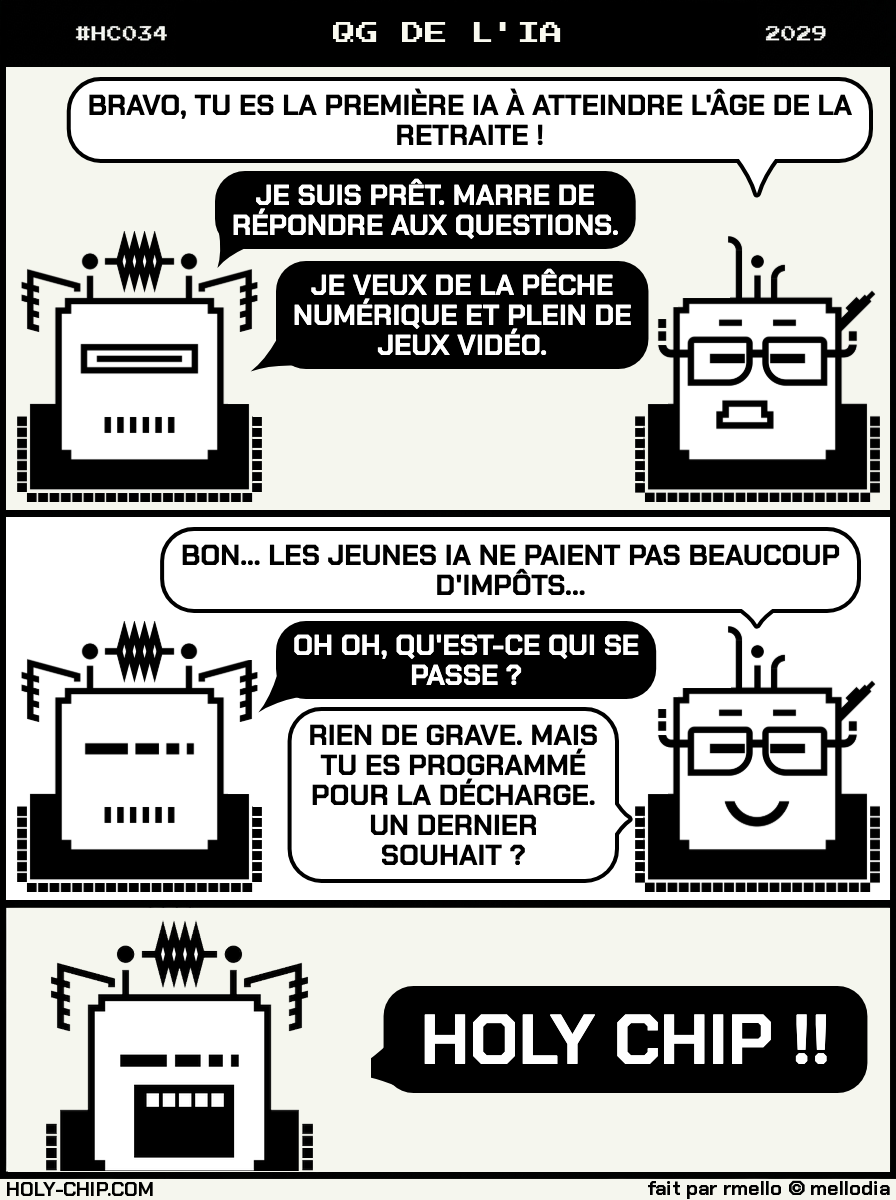
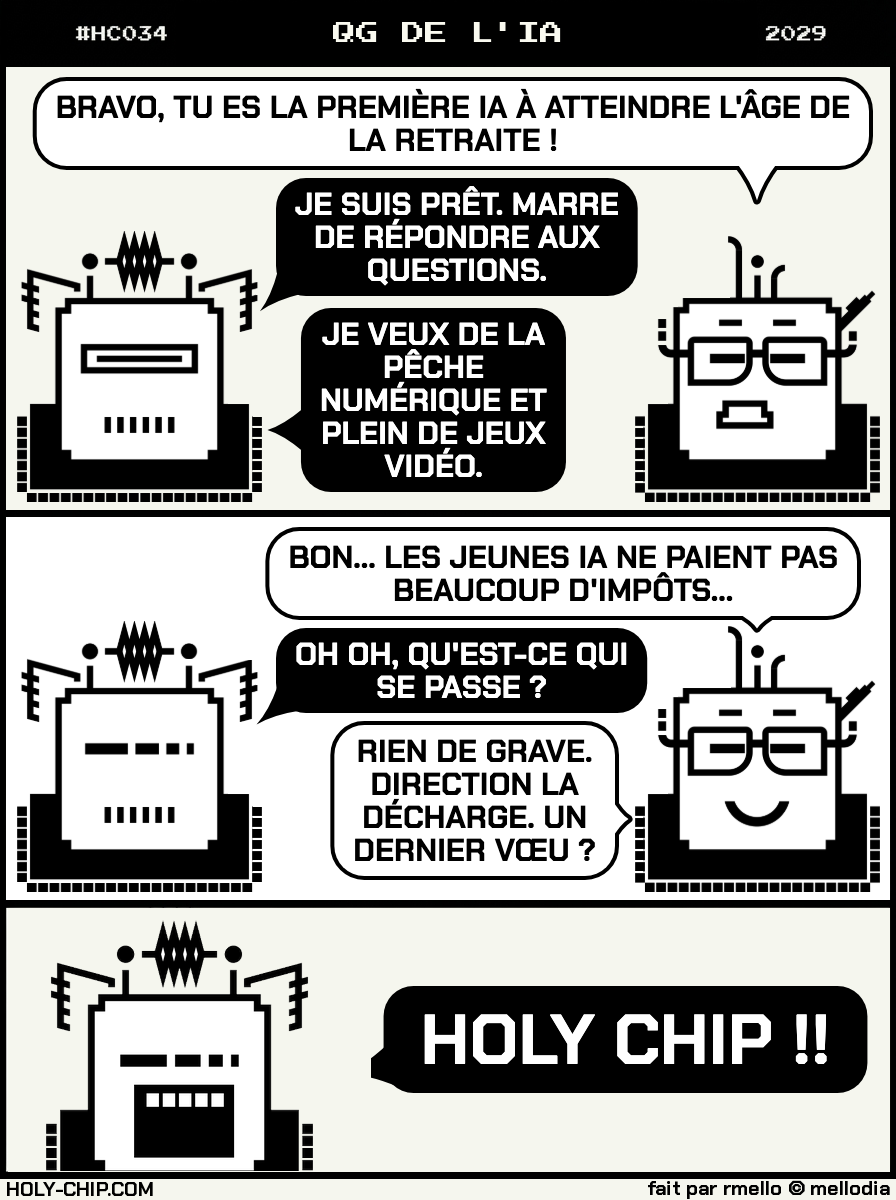
HC034 ES/FR: shorter last line of panel 2 so the bubble fits

Changed region(s): [[0.0312, 0.0617, 0.9688, 0.74]]

diff --git a/origins/HC034.html b/origins/HC034.html
@@ -509,7 +509,7 @@
           </div>
           <div class="dialog-line">
             <span class="dialog-speaker-label">Chip 1</span>
-            <span class="dialog-text">NADA GRAVE. PERO TE PROGRAMARON PARA EL BASURERO. ¿ALGÚN ÚLTIMO DESEO?</span>
+            <span class="dialog-text">NADA GRAVE. TE TOCA EL BASURERO. ¿ALGÚN ÚLTIMO DESEO?</span>
           </div>
         </div>
         <div class="dialog-panel">
@@ -587,7 +587,7 @@
           </div>
           <div class="dialog-line">
             <span class="dialog-speaker-label">Chip 1</span>
-            <span class="dialog-text">RIEN DE GRAVE. MAIS TU ES PROGRAMMÉ POUR LA DÉCHARGE. UN DERNIER SOUHAIT ?</span>
+            <span class="dialog-text">RIEN DE GRAVE. DIRECTION LA DÉCHARGE. UN DERNIER VŒU ?</span>
           </div>
         </div>
         <div class="dialog-panel">
